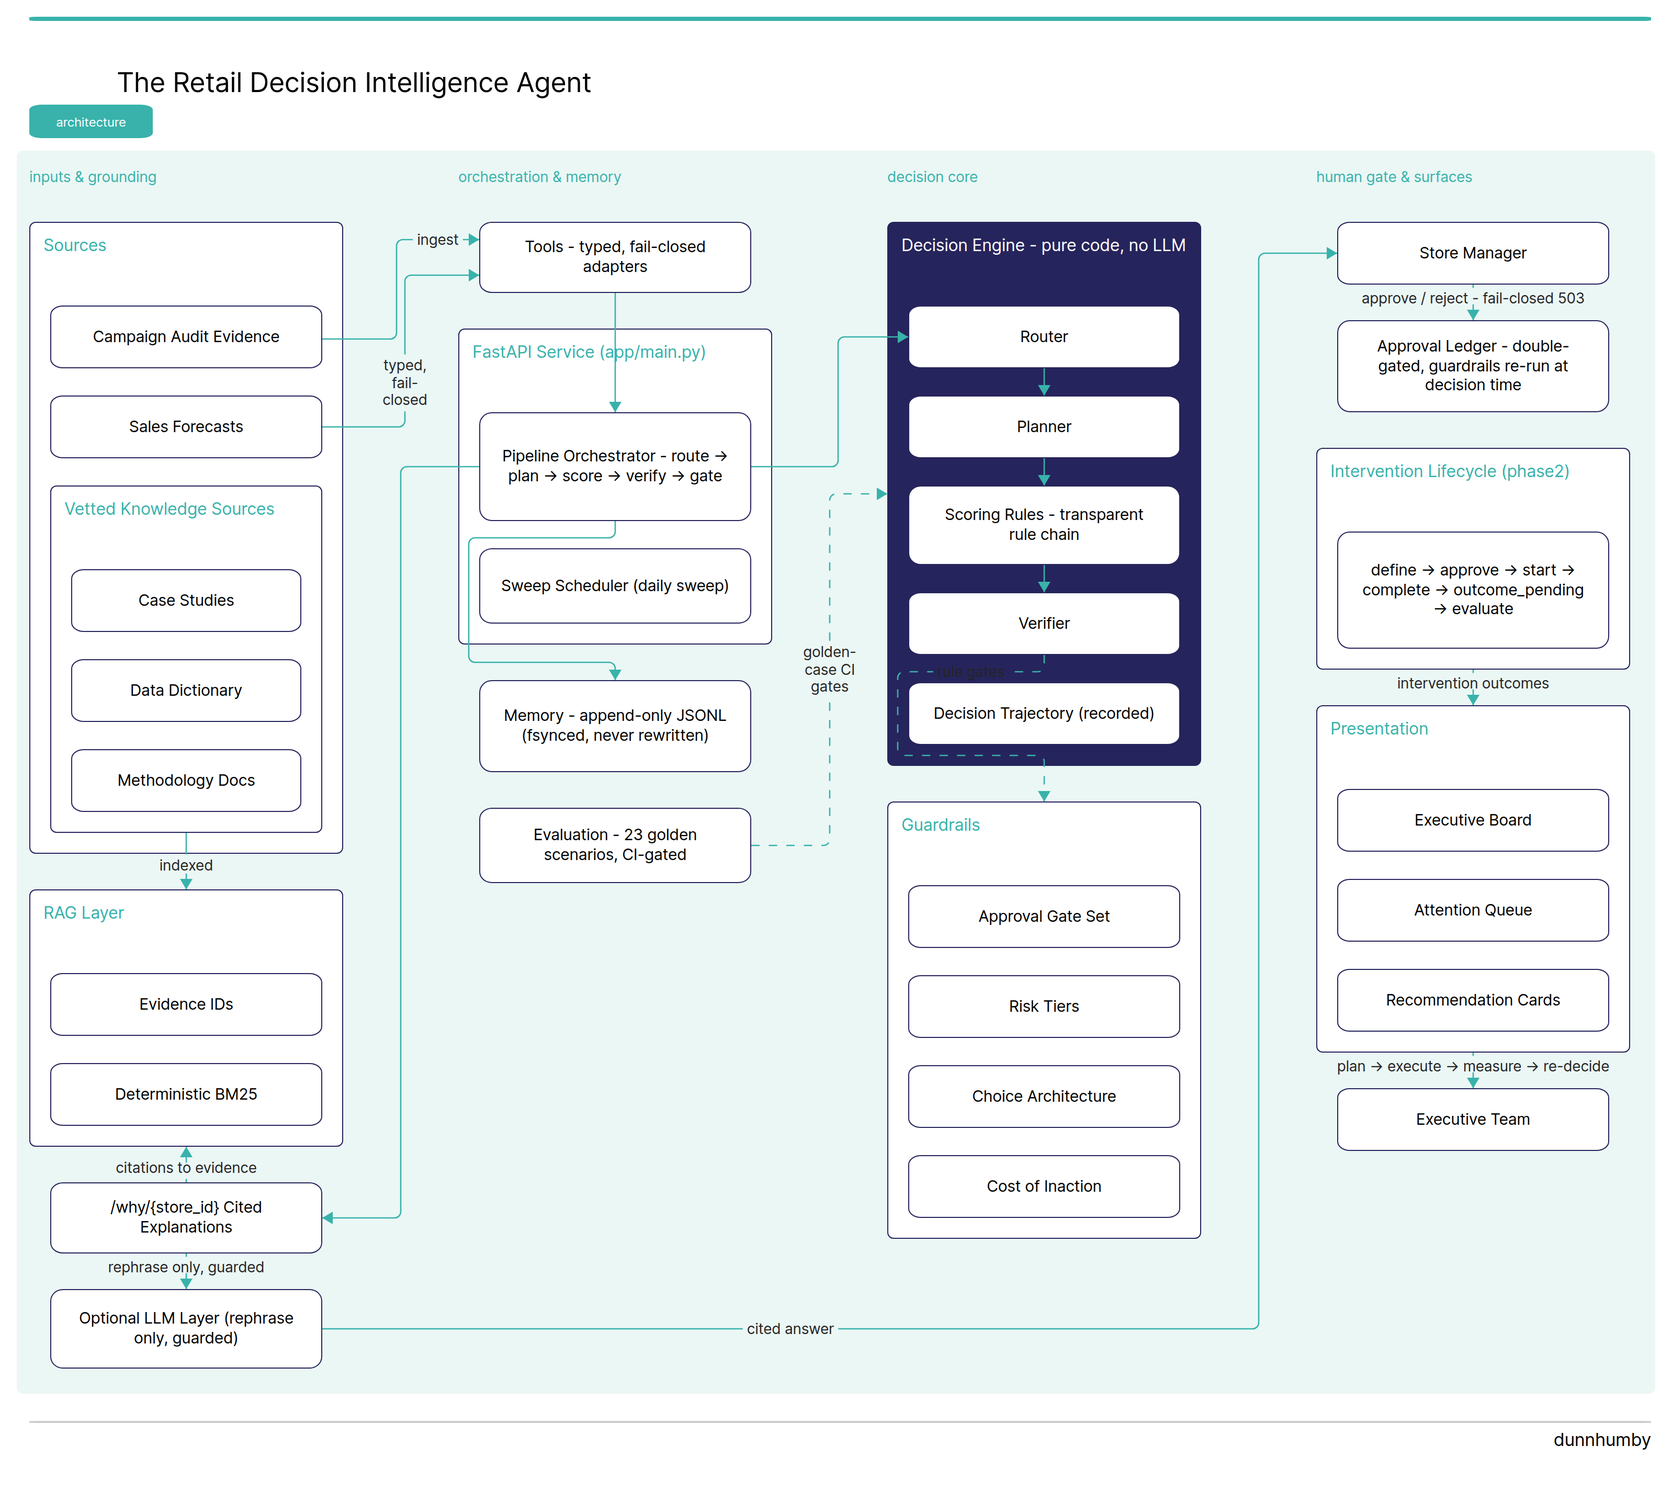
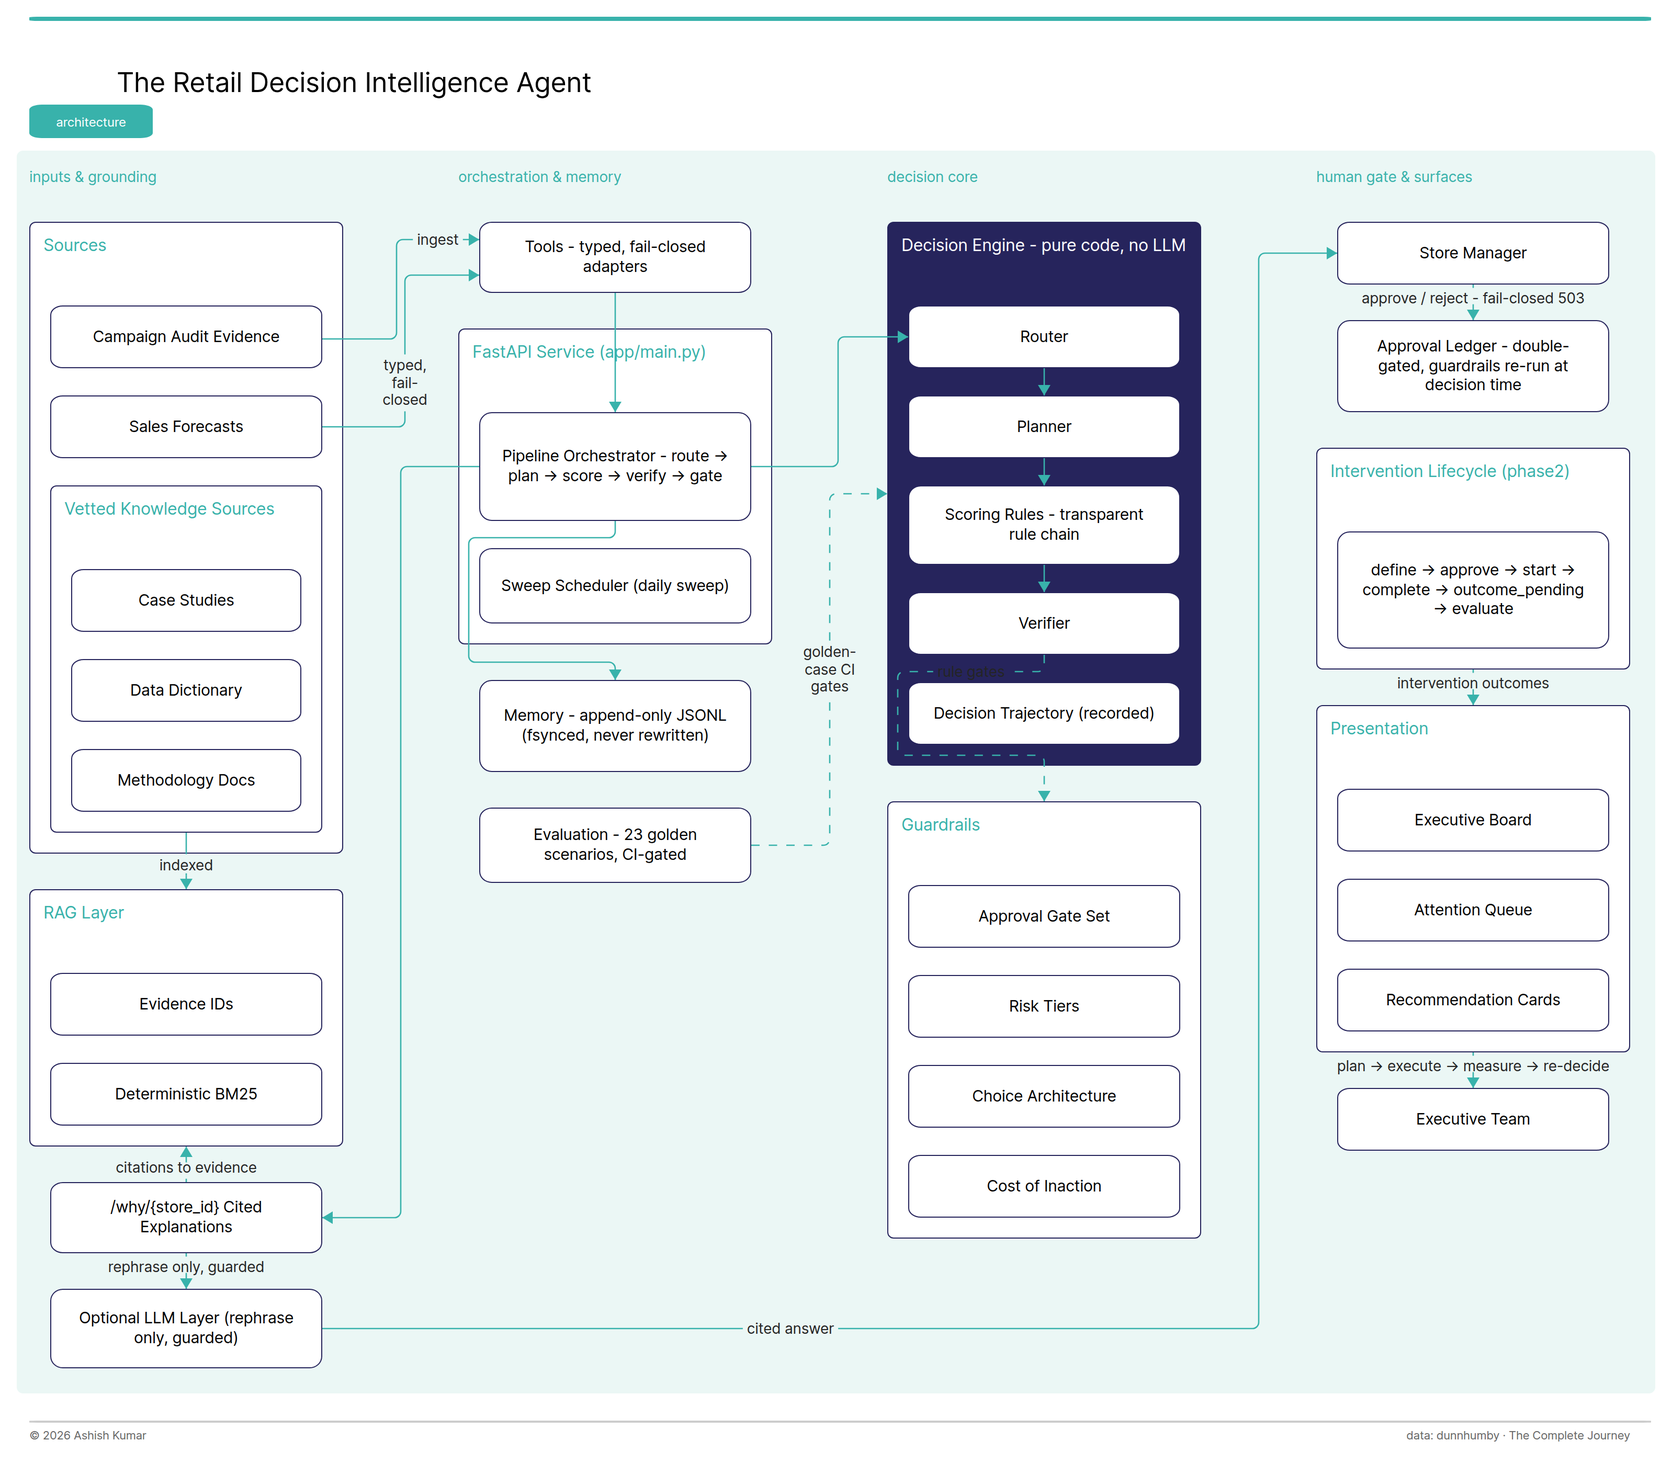
branding: the project is the author's, not dunnhumby's
Every served surface presented the work as a dunnhumby product: the board nav
wordmark read "dunnhumby", both frontend footers read "© 2026 dunnhumby", and
after the rights-notice removal the diagram footer was a bare dunnhumby wordmark.
None of that is true. This is a personal project built on dunnhumby's publicly
released dataset, and the copyright holder is the author (LICENSE: Ashish Kumar).

Each surface now credits the author and names dunnhumby as the data source only:

  diagram      © 2026 Ashish Kumar                      | data: dunnhumby · The Complete Journey
  board UI     © 2026 Ashish Kumar · data: dunnhumby    | Read-only
  /ui pages    © 2026 Ashish Kumar                      | data: dunnhumby
  nav brand    Ashish Kumar | retail decision agent    (was "dunnhumby | decision board")

The nav keeps the maker|product structure the CSS was designed for, and the
shorter wordmark fits the existing 19px brand slot (and survives the 600px media
query, where the longer project name in that slot would not). The diagram was
re-rendered through the stamped helper: the PNG is now 2820px tall instead of
2850 because the footer is two 11px labels where the 17px wordmark sat.

check.py's licence gate now asserts attribution positively - the holder is parsed
from LICENSE, each of the four surfaces must carry "© <year> <holder>", and none
may credit dunnhumby as the rights holder. Both directions verified to fail on
reintroduction.
[…]

diff --git a/app/page.tsx b/app/page.tsx
@@ -29,6 +29,6 @@ function StoreRow({ row, compact }: { row: Row; compact?: boolean }) {
 export default function BoardPage() { const [board, setBoard] = useState<Board | null>(null); const [error, setError] = useState(''); const [waking, setWaking] = useState(false); const [expanded, setExpanded] = useState<Record<string, boolean>>({ needs_intervention: true, recovering_well: true }); const [showAll, setShowAll] = useState<Record<string, boolean>>({})
  const load = useCallback(async () => { try { const response = await fetch(api('/board'), { cache: 'no-store' }); if (response.status === 502 || response.status === 504) { setWaking(true); setTimeout(async () => { try { const retry = await fetch(api('/board'), { cache: 'no-store' }); if (!retry.ok) throw new Error(); setBoard(await retry.json()); setError(''); setWaking(false) } catch { setError('The data service may still be starting.'); setWaking(false) } }, 30000); return } if (!response.ok) throw new Error(); setBoard(await response.json()); setError(''); setWaking(false) } catch { setError("Couldn't load the latest figures. Please try again in a moment."); setWaking(false) } }, [])
  useEffect(() => { load(); const timer = setInterval(load, 60000); return () => clearInterval(timer) }, [load])
- return <><div className="topline"/><main className="shell"><nav className="nav"><Link href="/" className="brand"><span className="brand-logo" aria-label="dunnhumby">dunnhumby</span><span className="brand-divider" aria-hidden="true"/><span className="brand-product">decision board</span></Link><div className="navlinks"><Link href="/">Overview</Link><span className="read-only"><i/>Read-only</span></div></nav><section className="hero"><div><div className="eyebrow">Campaign 18 · 12 PM - 6 PM</div><h1>Store review</h1><p>Which stores are responding, which need a decision, and which are still waiting on data.</p></div><div className="hero-meta"><div className="live-dot"><i/>Updated every 60 seconds</div></div></section>{(waking || error) && <div className="notice">{waking ? 'Service starting. Retrying shortly.' : error}</div>}{!board && !error ? <div className="loading">Loading latest figures…</div> : board && <><section className="summary"><div className="summary-intro"><span className="eyebrow">Coverage</span><h2>{display(board.total_stores)} stores</h2><p>Figures refresh every minute.</p></div>{ORDER.map(key => <div className={`summary-card ${accents[key]}`} key={key}><span>{labels[key]}</span><strong>{display(countFor(board, key))}</strong></div>)}</section><section className="section"><div className="section-head"><div><span className="eyebrow">Stores</span><h2>Store list</h2></div><span className="served">Refreshed every minute</span></div>{ORDER.map(bucket => { const rows = rowsFor(board, bucket); const open = expanded[bucket] ?? false; const all = showAll[bucket] ?? false; const visible = all ? rows : rows.slice(0, PAGE_SIZE); return <div className={`bucket ${accents[bucket]}`} key={bucket}><button className="bucket-head" onClick={() => setExpanded(e => ({ ...e, [bucket]: !open }))} aria-expanded={open}><div className="bucket-marker"/><div><h3>{labels[bucket]}</h3><span>{rows.length} {rows.length === 1 ? 'store' : 'stores'}</span></div><span className={`bucket-toggle ${open ? 'open' : ''}`} aria-hidden="true"><svg width="14" height="14" viewBox="0 0 16 16" fill="none"><path d="M4 6l4 4 4-4" stroke="currentColor" strokeWidth="2" strokeLinecap="round" strokeLinejoin="round"/></svg></span></button>{open && (visible.length ? visible.map((row, i) => <StoreRow row={row} key={`${row.store_id}-${i}`} compact={bucket === 'insufficient_data'}/>) : <div className="empty">No stores in this bucket.</div>)}{open && rows.length > PAGE_SIZE && <button className="show-toggle" onClick={() => setShowAll(s => ({ ...s, [bucket]: !all }))}>{all ? 'Show less' : `Show all ${rows.length} stores`}</button>}</div> })}</section></>}</main><footer className="shell footer"><span>© 2026 dunnhumby</span><span>Read-only</span></footer></> }
+ return <><div className="topline"/><main className="shell"><nav className="nav"><Link href="/" className="brand"><span className="brand-logo">Ashish Kumar</span><span className="brand-divider" aria-hidden="true"/><span className="brand-product">retail decision agent</span></Link><div className="navlinks"><Link href="/">Overview</Link><span className="read-only"><i/>Read-only</span></div></nav><section className="hero"><div><div className="eyebrow">Campaign 18 · 12 PM - 6 PM</div><h1>Store review</h1><p>Which stores are responding, which need a decision, and which are still waiting on data.</p></div><div className="hero-meta"><div className="live-dot"><i/>Updated every 60 seconds</div></div></section>{(waking || error) && <div className="notice">{waking ? 'Service starting. Retrying shortly.' : error}</div>}{!board && !error ? <div className="loading">Loading latest figures…</div> : board && <><section className="summary"><div className="summary-intro"><span className="eyebrow">Coverage</span><h2>{display(board.total_stores)} stores</h2><p>Figures refresh every minute.</p></div>{ORDER.map(key => <div className={`summary-card ${accents[key]}`} key={key}><span>{labels[key]}</span><strong>{display(countFor(board, key))}</strong></div>)}</section><section className="section"><div className="section-head"><div><span className="eyebrow">Stores</span><h2>Store list</h2></div><span className="served">Refreshed every minute</span></div>{ORDER.map(bucket => { const rows = rowsFor(board, bucket); const open = expanded[bucket] ?? false; const all = showAll[bucket] ?? false; const visible = all ? rows : rows.slice(0, PAGE_SIZE); return <div className={`bucket ${accents[bucket]}`} key={bucket}><button className="bucket-head" onClick={() => setExpanded(e => ({ ...e, [bucket]: !open }))} aria-expanded={open}><div className="bucket-marker"/><div><h3>{labels[bucket]}</h3><span>{rows.length} {rows.length === 1 ? 'store' : 'stores'}</span></div><span className={`bucket-toggle ${open ? 'open' : ''}`} aria-hidden="true"><svg width="14" height="14" viewBox="0 0 16 16" fill="none"><path d="M4 6l4 4 4-4" stroke="currentColor" strokeWidth="2" strokeLinecap="round" strokeLinejoin="round"/></svg></span></button>{open && (visible.length ? visible.map((row, i) => <StoreRow row={row} key={`${row.store_id}-${i}`} compact={bucket === 'insufficient_data'}/>) : <div className="empty">No stores in this bucket.</div>)}{open && rows.length > PAGE_SIZE && <button className="show-toggle" onClick={() => setShowAll(s => ({ ...s, [bucket]: !all }))}>{all ? 'Show less' : `Show all ${rows.length} stores`}</button>}</div> })}</section></>}</main><footer className="shell footer"><span>© 2026 Ashish Kumar · data: dunnhumby</span><span>Read-only</span></footer></> }
 
 export const dynamic = 'force-dynamic'

diff --git a/app/store/[id]/page.tsx b/app/store/[id]/page.tsx
@@ -7,5 +7,5 @@ function api(path: string) { return `/api${path}` }
 type Detail = { store_id?: any; narrative?: string; citations?: {type?:any;id?:any;detail?:any}[]; methodology?: {chunk_id?:any;title?:any;part?:any;score?:any}[]; guard?: Record<string,any> }
 export default function StoreDetail({ params }: { params: Promise<{ id: string }> }) { const [id,setId]=useState(''); const [data,setData]=useState<Detail|null>(null); const [error,setError]=useState('')
  useEffect(()=>{params.then(({id})=>{setId(id);fetch(api(`/why/${id}`),{cache:'no-store'}).then(r=>{if(!r.ok)throw new Error();return r.json()}).then(setData).catch(()=>setError("Couldn't load this store. Please try again in a moment."))})},[params])
- return <><div className="topline"/><main className="shell"><nav className="nav"><Link href="/" className="brand"><span className="brand-logo" aria-label="dunnhumby">dunnhumby</span><span className="brand-divider" aria-hidden="true"/><span className="brand-product">decision board</span></Link><div className="navlinks"><Link href="/">Overview</Link><span className="read-only"><i/>Read-only</span></div></nav><section className="hero"><div><Link href="/" className="back">← Back to board</Link><div className="eyebrow" style={{marginTop:24}}>Store detail</div><h1>Store {data?.store_id || id}</h1><p>How this store is responding, with the evidence behind it.</p></div></section>{error&&<div className="error">{error}</div>}{!data&&!error?<div className="loading">Loading store figures…</div>:data&&<div className="detail-grid"><article className="panel"><h2 className="section-title">Store summary</h2><p className="narrative" style={{marginTop:18}}>{data.narrative || 'No summary available yet.'}</p><div className="chips">{data.citations?.map((citation,i)=><span className="chip" key={i}>{display(citation.type)} · {display(citation.id)} · {display(citation.detail)}</span>)}</div></article><aside className="panel"><h2 className="section-title">Evidence</h2><div className="chips">{Object.entries(data.guard || {}).map(([key,value])=><span className="badge available" key={key}>{key}: {String(value)}</span>)}</div>{data.methodology?.length ? <><h3 style={{marginTop:26,fontSize:13}}>Methodology</h3><div className="chips">{data.methodology.map((item,i)=><span className="chip" key={i}>{display(item.title)} · {display(item.part)}</span>)}</div></> : null}</aside></div>}</main><footer className="shell footer"><span>© 2026 dunnhumby</span><span>Read-only</span></footer></> }
+ return <><div className="topline"/><main className="shell"><nav className="nav"><Link href="/" className="brand"><span className="brand-logo">Ashish Kumar</span><span className="brand-divider" aria-hidden="true"/><span className="brand-product">retail decision agent</span></Link><div className="navlinks"><Link href="/">Overview</Link><span className="read-only"><i/>Read-only</span></div></nav><section className="hero"><div><Link href="/" className="back">← Back to board</Link><div className="eyebrow" style={{marginTop:24}}>Store detail</div><h1>Store {data?.store_id || id}</h1><p>How this store is responding, with the evidence behind it.</p></div></section>{error&&<div className="error">{error}</div>}{!data&&!error?<div className="loading">Loading store figures…</div>:data&&<div className="detail-grid"><article className="panel"><h2 className="section-title">Store summary</h2><p className="narrative" style={{marginTop:18}}>{data.narrative || 'No summary available yet.'}</p><div className="chips">{data.citations?.map((citation,i)=><span className="chip" key={i}>{display(citation.type)} · {display(citation.id)} · {display(citation.detail)}</span>)}</div></article><aside className="panel"><h2 className="section-title">Evidence</h2><div className="chips">{Object.entries(data.guard || {}).map(([key,value])=><span className="badge available" key={key}>{key}: {String(value)}</span>)}</div>{data.methodology?.length ? <><h3 style={{marginTop:26,fontSize:13}}>Methodology</h3><div className="chips">{data.methodology.map((item,i)=><span className="chip" key={i}>{display(item.title)} · {display(item.part)}</span>)}</div></> : null}</aside></div>}</main><footer className="shell footer"><span>© 2026 Ashish Kumar · data: dunnhumby</span><span>Read-only</span></footer></> }
 function display(value:any){return value===null||value===undefined||value===''?'—':String(value)}

diff --git a/scripts/check.py b/scripts/check.py
@@ -19,7 +19,8 @@ so a change in one place cannot silently drift from its consumers:
 7. Docs: load-bearing prose claims (the golden-case count, whether the repo
    ships a render.yaml, the endpoints the README advertises) match their source
    of truth, so prose cannot outlive the code it describes - and no rendered
-   artifact carries a rights notice that the MIT licence contradicts.
+   artifact carries a rights notice the MIT licence contradicts, or credits the
+   data provider as the rights holder instead of the LICENSE holder.
 
 Run: ``python scripts/check.py`` (exit 0 = consistent, 1 = drift found).
 """
@@ -310,6 +311,25 @@ _ui_html = render_page("check", "/ui", "")
 _ui_footer = _ui_html[_ui_html.find("<footer"):_ui_html.find("</footer>")]
 check("licence: the served UI footer carries no 'all rights reserved' notice",
       _ui_footer and "all rights reserved" not in _ui_footer.lower())
+
+# Attribution: the MIT holder in LICENSE is the author, so every rendered surface
+# credits them and none credits dunnhumby as the rights holder (dunnhumby is the
+# data source). This is the misattribution the board shipped: "© 2026 dunnhumby".
+_licence = (ROOT / "LICENSE").read_text(encoding="utf-8")
+_lic = re.search(r"Copyright \(c\) (\d{4}) (.+)", _licence)
+_attribution = f"© {_lic.group(1)} {_lic.group(2).strip()}" if _lic else ""
+_surfaces = {
+    "diagram": _committed_json.decode("utf-8", "replace"),
+    "ui footer": _ui_footer,
+    "frontend:board": (ROOT / "app" / "page.tsx").read_text(encoding="utf-8"),
+    "frontend:store": (ROOT / "app" / "store" / "[id]" / "page.tsx").read_text(encoding="utf-8"),
+}
+_uncredited = [n for n, t in _surfaces.items() if _attribution and _attribution not in t]
+_miscredited = [n for n, t in _surfaces.items()
+                if re.search(r"©\s*(?:\d{4}\s*)?dunnhumby", t, re.IGNORECASE)]
+check("licence: every surface credits the LICENSE holder, none credits the data provider",
+      bool(_attribution) and not _uncredited and not _miscredited,
+      f"attribution={_attribution!r} uncredited={_uncredited} miscredited={_miscredited}")
 
 print()
 if failures:

diff --git a/scripts/generate_architecture_dunnhumby.py b/scripts/generate_architecture_dunnhumby.py
@@ -17,8 +17,8 @@ Design language replicated:
     - teal section labels per column ("Data tables" / "Lookup tables" style)
     - flat white node boxes with thin indigo borders, black text (print look)
     - Decision Engine on deep indigo with white title (cover-gradient nod)
-    - gray footer rule + dunnhumby wordmark (every page's footer; deliberately no
-      copyright line, since this repo is MIT-licensed, not all-rights-reserved)
+    - gray footer rule + attribution (every page's footer: the author holds the
+      copyright, dunnhumby is credited only as the data source)
 
 Render:
     eraser-diagrams render docs/diagrams/architecture-dunnhumby.json \\
@@ -40,6 +40,7 @@ MINT = "#ebf7f5"
 INDIGO = "#26245c"
 BLACK = "#000000"
 GRAY = "#cccccc"
+FOOTER_GRAY = "#666666"
 WHITE = "#ffffff"
 
 LEFT, TOP = 40, 170
@@ -127,11 +128,14 @@ def build_document() -> dict:
 
     footer = [
         _rect("tcj-footer-rule", LEFT, panel["y"] + panel["h"] + 26, content_right + 20 - LEFT, 2, GRAY),
-        # No copyright line here on purpose: this project is MIT (see LICENSE),
-        # and "all rights reserved" on the diagram contradicted the licence the
-        # repo actually ships under. The rule + wordmark keep the page furniture.
-        _label("tcj-footer-brand", content_right - 240, panel["y"] + panel["h"] + 34, "dunnhumby", BLACK,
-               size=17, width=260, halign="right"),
+        # The author holds the copyright (see LICENSE); dunnhumby is named as the
+        # data source, not as the brand. The page should read as a personal
+        # project built on dunnhumby's public dataset, not as their product.
+        _label("tcj-footer-copy", LEFT, panel["y"] + panel["h"] + 34,
+               "© 2026 Ashish Kumar", FOOTER_GRAY, size=11, bold=False, width=700),
+        _label("tcj-footer-data", content_right - 360, panel["y"] + panel["h"] + 34,
+               "data: dunnhumby · The Complete Journey", FOOTER_GRAY,
+               size=11, bold=False, width=360, halign="right"),
     ]
 
     entities = header + [panel_group] + col_labels + nodes + footer

diff --git a/presentation/site.py b/presentation/site.py
@@ -153,7 +153,6 @@ button {{ background: {TEAL}; color: #fff; border: none; cursor: pointer;
           padding: 7px 16px; font-weight: 600; }}
 footer {{ margin-top: 40px; border-top: 1px solid #ccc; padding: 10px 0 30px;
           color: {GRAY}; font-size: 12px; display: flex; justify-content: space-between; }}
-footer span:last-child {{ margin-left: auto; }}
 .muted {{ color: {GRAY}; font-size: 12px; }}
 .kpis span {{ display: inline-block; background: #fff; border: 1px solid #d9e5e2;
               padding: 12px 22px; margin: 6px 14px 6px 0; }}
@@ -175,12 +174,10 @@ def render_page(title: str, active: str, body: str) -> str:
         f'<a href="{href}" class="{"active" if href == active else ""}">{esc(label)}</a>'
         for href, label in _NAV
     )
-    # The footer keeps only the wordmark: an "all rights reserved" notice
-    # contradicted the MIT licence this repo ships under (see LICENSE), and beside
-    # the dunnhumby wordmark it read as a third party reserving rights. The
-    # `footer span:last-child` rule in _CSS keeps the wordmark pinned right now
-    # that it is the only child. Not a comment in _CSS: that string is inlined
-    # into every page and would ship the note to the browser.
+    # The footer credits the author (see LICENSE) and names dunnhumby as the data
+    # provider only, so the page reads as a personal project built on their public
+    # dataset rather than as a dunnhumby product. Two spans, so the flexbox
+    # `space-between` in _CSS puts the attribution left and the credit right.
     return f"""<!DOCTYPE html>
 <html><head><meta charset="utf-8"><title>{esc(title)} · retail decision agent</title>
 <style>{_CSS}</style></head><body>
@@ -188,7 +185,7 @@ def render_page(title: str, active: str, body: str) -> str:
 <h1>{esc(title)}</h1>
 <nav>{links}</nav>
 {body}
-<footer><span><b>dunnhumby</b></span></footer>
+<footer><span>© 2026 Ashish Kumar</span><span>data: dunnhumby</span></footer>
 </div></body></html>"""
 
 
